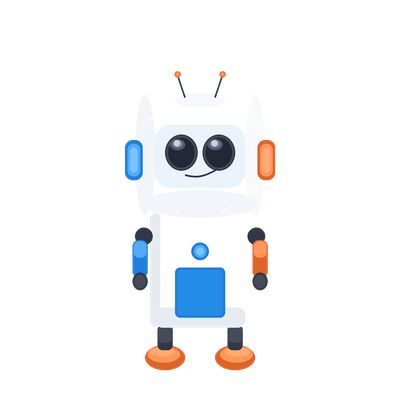
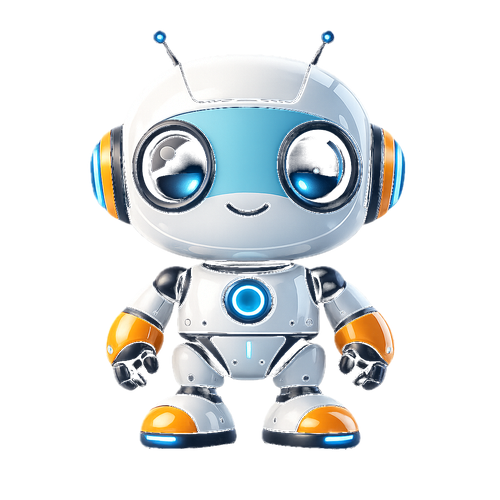
MOXIE final mascot: 3D robot from ChatGPT, transparent bg, larger on login

Changed region(s): [[0.18, 0.06, 0.81, 0.93], [0.3, 0.06, 0.33, 0.09]]

diff --git a/index.html b/index.html
@@ -10,7 +10,7 @@
 <body>
   <div class="landing">
     <div class="landing-box">
-      <img src="/assets/moxie-mascot-small.png" alt="MOXIE" style="width:120px;height:120px;margin:0 auto 16px;display:block;">
+      <img src="/assets/moxie-mascot-small.png" alt="MOXIE" style="width:200px;height:200px;margin:0 auto 16px;display:block;">
       <div class="brand">MOXIE AI Insights</div>
       <p class="tagline">Your Monthly Marketing Performance Dashboard</p>
       <form id="client-form" onsubmit="return false;">
